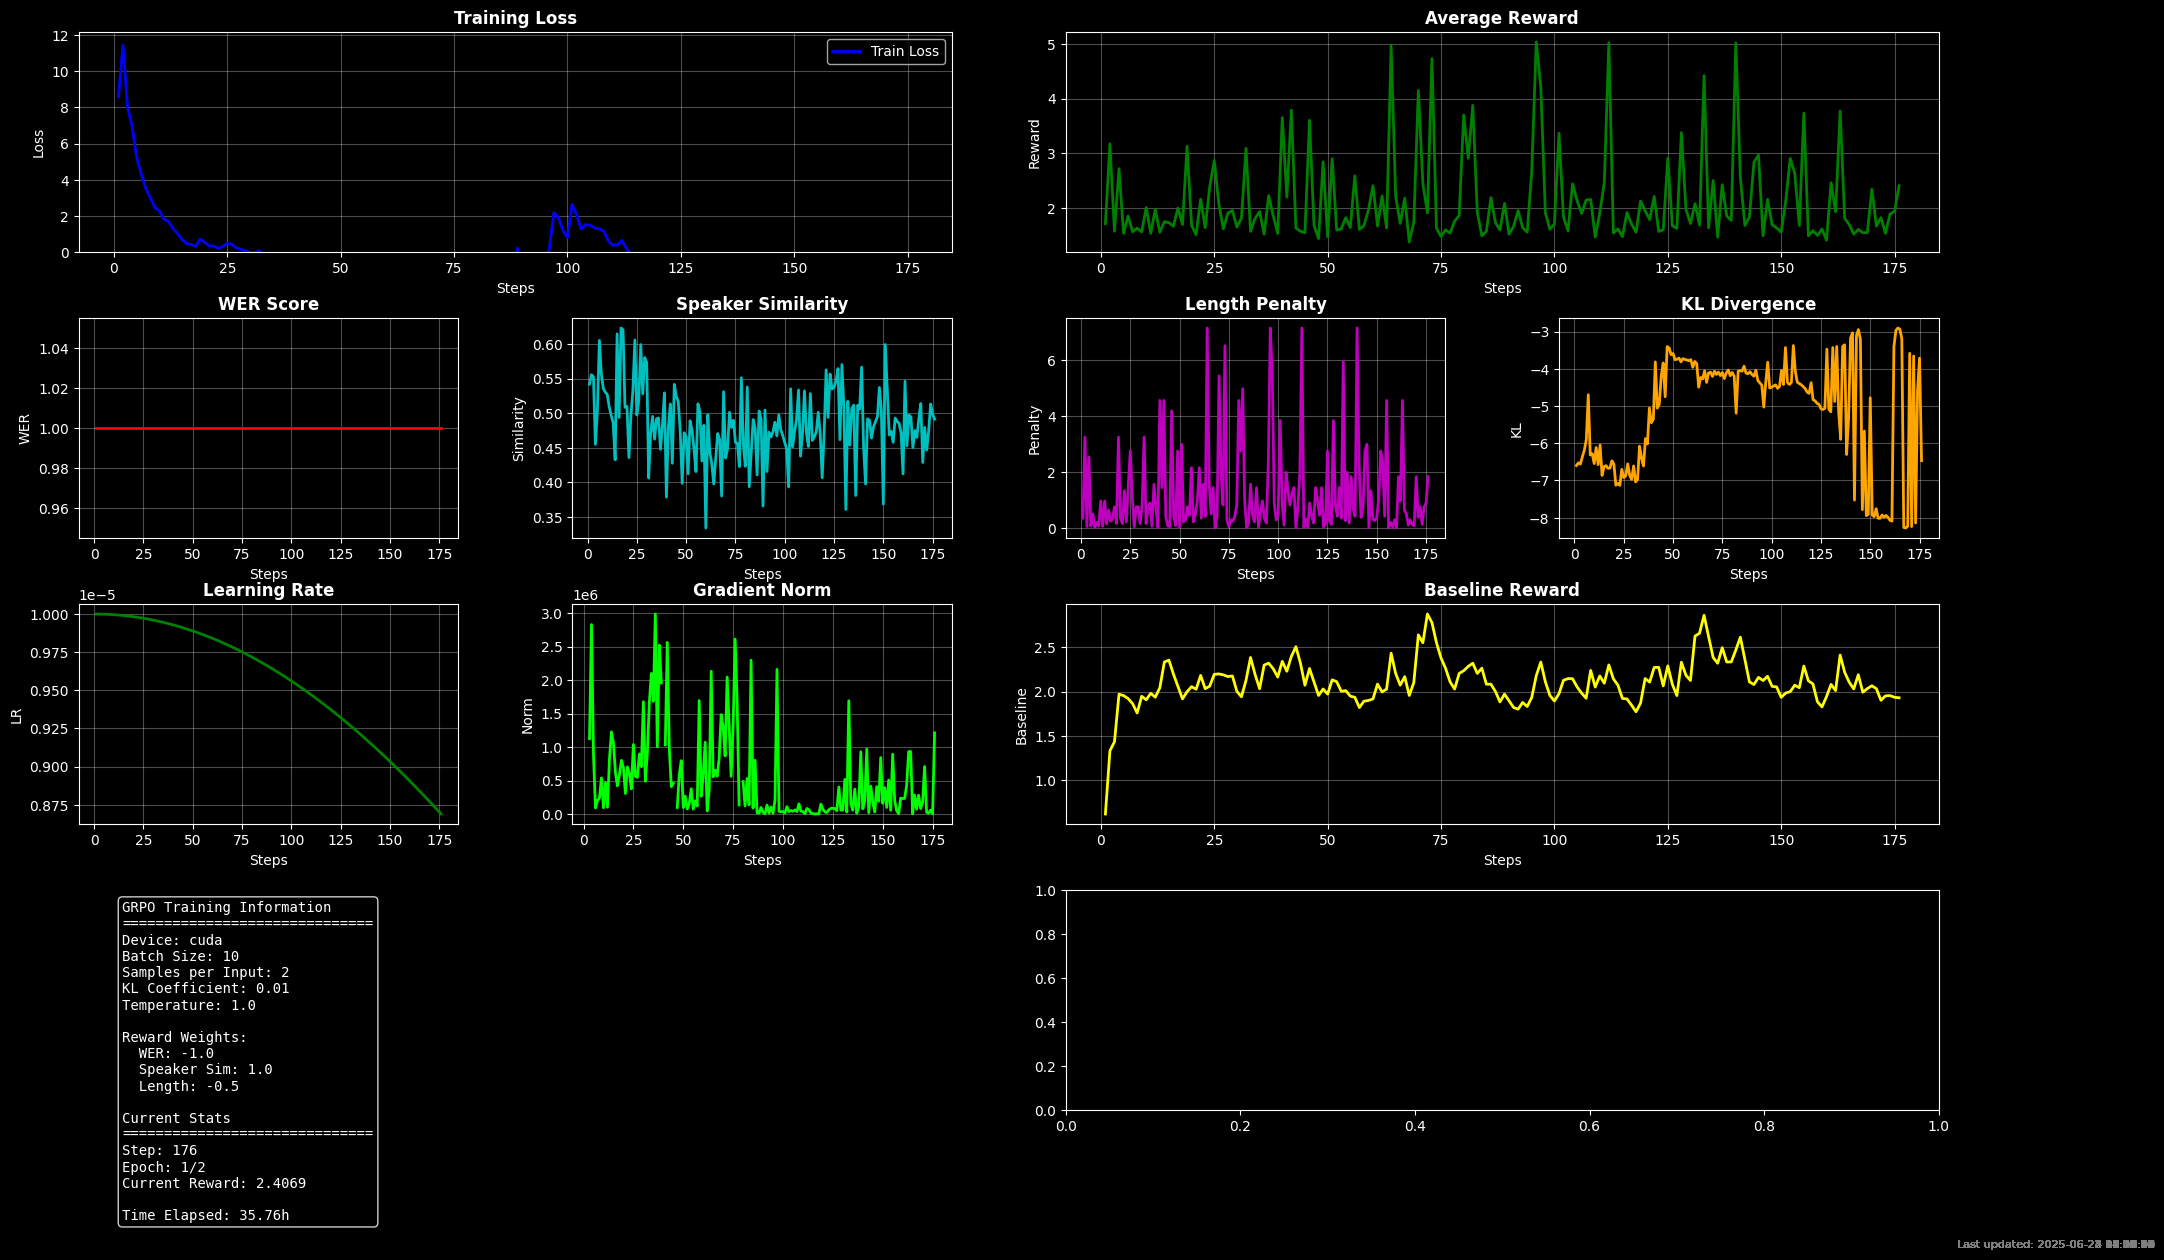
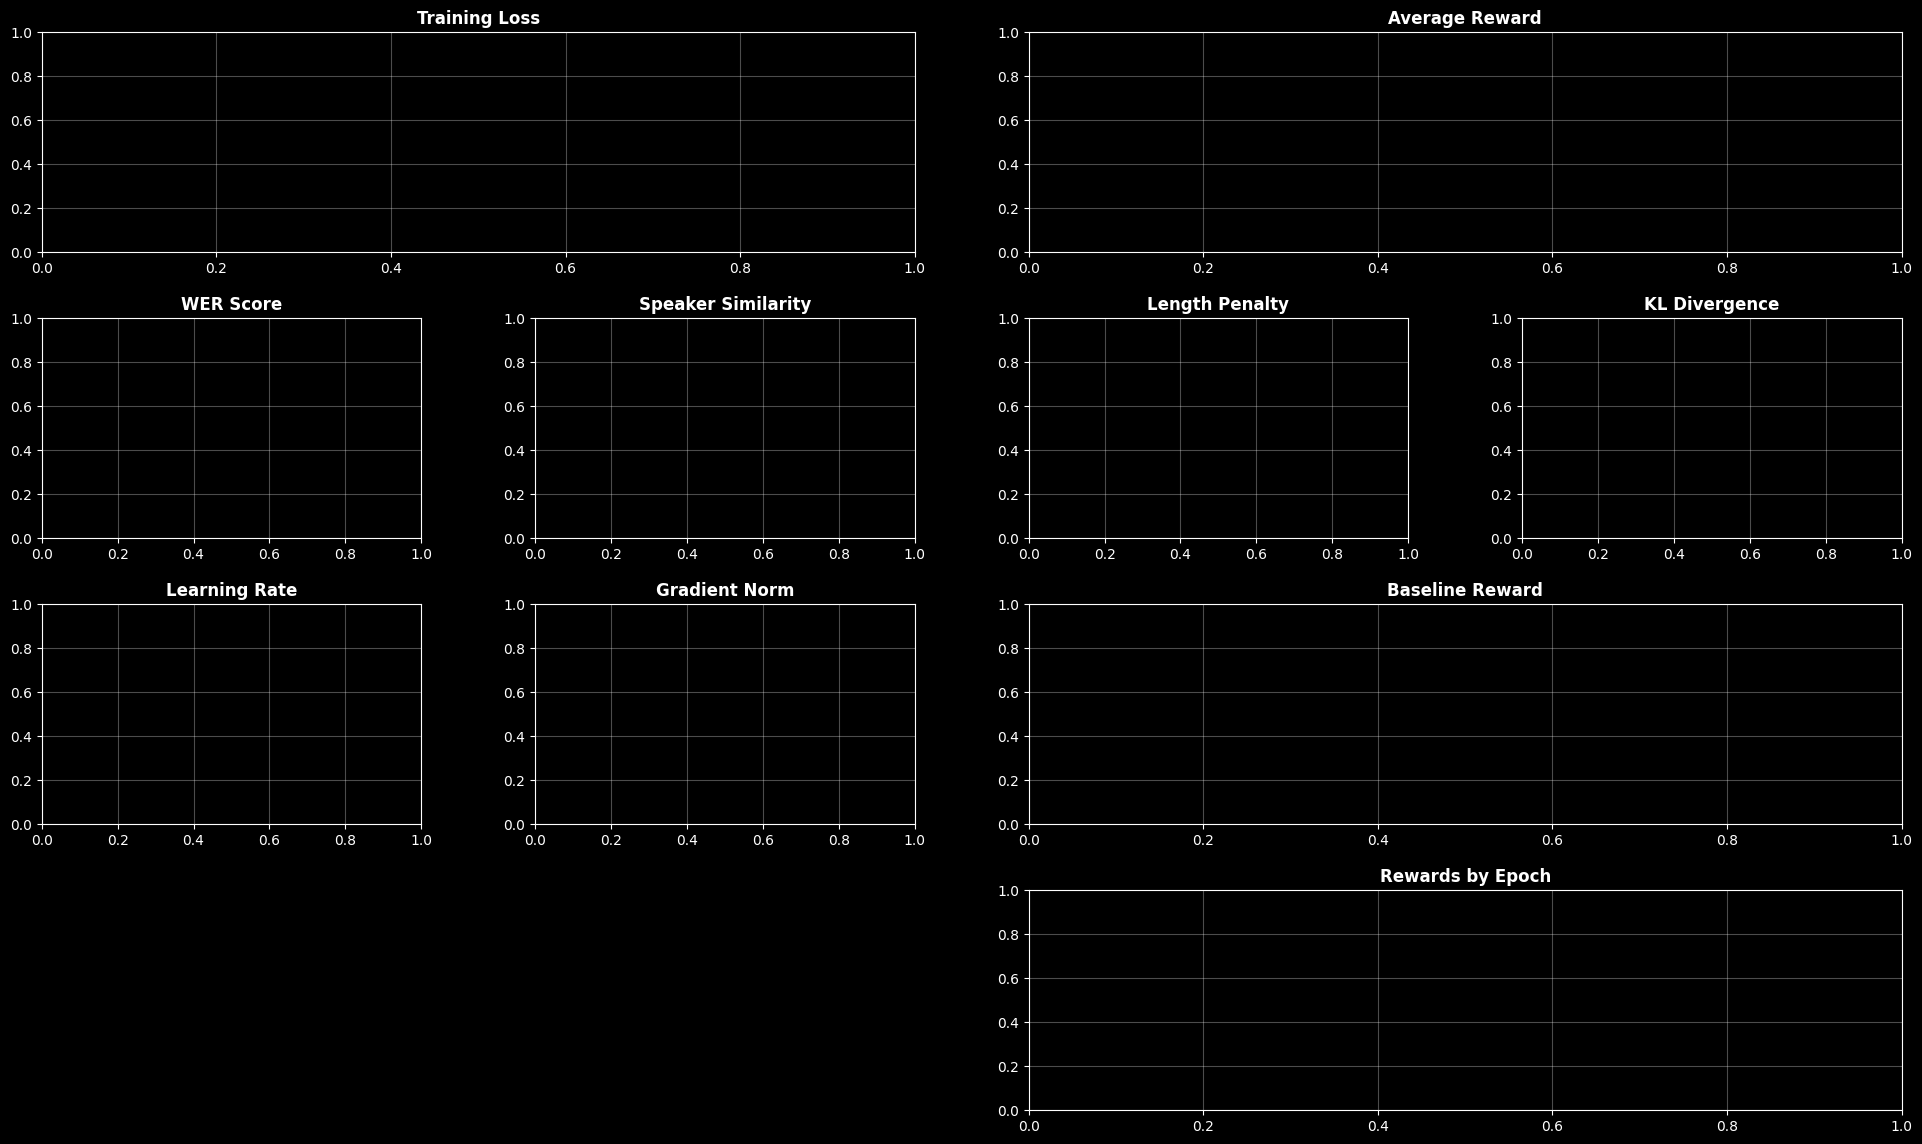
udpate training scripts to properly use new tokenizer

diff --git a/lora.py b/lora.py
@@ -768,10 +768,6 @@ def main():
     print("Injecting LoRA layers...")
     target_modules = TARGET_MODULES
 
-
-
-
-
     lora_layers = inject_lora_layers(
         model.t3.tfmr,
         target_modules,
@@ -806,12 +802,20 @@ def main():
         pin_memory=True if DEVICE == 'cuda' else False
     )
     
-    # Setup optimizer (only LoRA parameters)
-    lora_params = []
+    # ---------------------------------------------------------------
+    # Setup optimizer – train LoRA *and* the new Spanish token rows
+    # ---------------------------------------------------------------
+    # Collect LoRA parameters
+    lora_params: List[torch.nn.Parameter] = []
     for layer in lora_layers.values():
         lora_params.extend([layer.lora_A, layer.lora_B])
-    
-    optimizer = AdamW(lora_params, lr=LEARNING_RATE)
+
+    # Collect the resized text embedding + head parameters so they can
+    # learn useful representations for the new Spanish vocabulary.
+    base_params: List[torch.nn.Parameter] = list(model.t3.text_emb.parameters()) + \
+                                              list(model.t3.text_head.parameters())
+
+    optimizer = AdamW(base_params + lora_params, lr=LEARNING_RATE)
     scheduler = CosineAnnealingLR(
         optimizer,
         T_max=len(train_loader) * EPOCHS,
@@ -937,13 +941,20 @@ def main():
     final_adapter_path = Path(CHECKPOINT_DIR) / "final_lora_adapter.pt"
     save_lora_adapter(lora_layers, str(final_adapter_path))
     
-    # Create and save merged model
-    print("Creating merged model...")
-    
-    # Clone the model state for merging
+    # ---------------------------------------------------------------
+    # Build merged model that already has Spanish vocabulary support
+    # ---------------------------------------------------------------
     merged_model = ChatterboxTTS.from_pretrained(DEVICE)
-    
-    # Re-inject LoRA layers and load final weights
+    merged_model = resize_t3_embeddings(merged_model, spanish_tokenizer.vocab_size, DEVICE)
+    merged_model.tokenizer = spanish_tokenizer
+
+    # Transfer the trained embedding & head weights
+    merged_model.t3.text_emb.weight.data = model.t3.text_emb.weight.data.clone()
+    merged_model.t3.text_head.weight.data = model.t3.text_head.weight.data.clone()
+    if merged_model.t3.text_head.bias is not None:
+        merged_model.t3.text_head.bias.data = model.t3.text_head.bias.data.clone()
+
+    # Re-inject LoRA layers and copy trained LoRA weights
     merged_lora_layers = inject_lora_layers(
         merged_model.t3.tfmr,
         target_modules,
@@ -951,34 +962,28 @@ def main():
         alpha=LORA_ALPHA,
         dropout=LORA_DROPOUT
     )
-    
-    # Copy trained weights to merged model's LoRA layers
     for name, layer in lora_layers.items():
         if name in merged_lora_layers:
             merged_lora_layers[name].lora_A.data = layer.lora_A.data.clone()
             merged_lora_layers[name].lora_B.data = layer.lora_B.data.clone()
-    
-    # Merge LoRA weights into base model
+
     merged_model = merge_lora_weights(merged_model, merged_lora_layers)
-    
+
     # Save merged model components
     merged_dir = Path(CHECKPOINT_DIR) / "merged_model"
     merged_dir.mkdir(parents=True, exist_ok=True)
-    
-    # Save each component
+
     torch.save(merged_model.ve.state_dict(), merged_dir / "ve.pt")
     torch.save(merged_model.t3.state_dict(), merged_dir / "t3_cfg.pt")
     torch.save(merged_model.s3gen.state_dict(), merged_dir / "s3gen.pt")
-    
-    # Copy tokenizer
-    import shutil
-    tokenizer_path = Path(hf_hub_download(repo_id="ResembleAI/chatterbox", filename="tokenizer.json"))
-    shutil.copy(tokenizer_path, merged_dir / "tokenizer.json")
-    
+
+    # Save Spanish tokenizer alongside the model
+    spanish_tokenizer.save_pretrained(merged_dir, safe_serialization=False)
+
     # Save conditionals if they exist
     if model.conds:
         model.conds.save(merged_dir / "conds.pt")
-    
+
     print(f"Saved merged model to {merged_dir}")
     print("\nTraining complete! You can now:")
     print(f"1. Use the LoRA adapter: {final_adapter_path}")
@@ -1093,6 +1098,9 @@ def save_checkpoint(
        'loss': loss,
        'lora_state_dict': lora_state_dict,
        'optimizer_state_dict': optimizer.state_dict(),
+       # Store the full model weights so we keep the trained Spanish
+       # embedding/head layers and any other fine-tuned weights.
+       'model_state_dict': model.state_dict(),
    }
    
    torch.save(checkpoint, checkpoint_path)

diff --git a/grpo.py b/grpo.py
@@ -1221,7 +1221,7 @@ def compute_grpo_loss(
                                     if validate_tensor_operation(kl_div, f"kl div {idx}"):
                                         total_kl += kl_div
                 
-                del embeds, hidden_states
+                del embeds, hidden_states, speech_logits
                 if DEVICE == 'cuda':
                     torch.cuda.empty_cache()
                     
@@ -1358,11 +1358,17 @@ def main():
             pin_memory=True if DEVICE == 'cuda' else False
         )
         
-        lora_params = []
+        # ---------------------------------------------------------------
+        # Optimizer trains LoRA params *and* new Spanish embedding rows
+        # ---------------------------------------------------------------
+        lora_params: List[torch.nn.Parameter] = []
         for layer in lora_layers.values():
             lora_params.extend([layer.lora_A, layer.lora_B])
-        
-        optimizer = AdamW(lora_params, lr=LEARNING_RATE)
+
+        base_params: List[torch.nn.Parameter] = list(model.t3.text_emb.parameters()) + \
+                                              list(model.t3.text_head.parameters())
+
+        optimizer = AdamW(base_params + lora_params, lr=LEARNING_RATE)
         scheduler = CosineAnnealingLR(
             optimizer,
             T_max=len(train_loader) * EPOCHS,
@@ -1550,8 +1556,19 @@ def main():
         save_lora_adapter(lora_layers, str(final_adapter_path))
         
         print("Creating merged model...")
+        # ---------------------------------------------------------------
+        # Build merged model that already has Spanish vocab & weights
+        # ---------------------------------------------------------------
         merged_model = ChatterboxTTS.from_pretrained(DEVICE)
-        
+        merged_model = resize_t3_embeddings(merged_model, spanish_tokenizer.vocab_size, DEVICE)
+        merged_model.tokenizer = spanish_tokenizer
+
+        # copy embedding/head weights
+        merged_model.t3.text_emb.weight.data = model.t3.text_emb.weight.data.clone()
+        merged_model.t3.text_head.weight.data = model.t3.text_head.weight.data.clone()
+        if merged_model.t3.text_head.bias is not None:
+            merged_model.t3.text_head.bias.data = model.t3.text_head.bias.data.clone()
+
         merged_lora_layers = inject_lora_layers(
             merged_model.t3.tfmr,
             target_modules,
@@ -1559,25 +1576,23 @@ def main():
             alpha=LORA_ALPHA,
             dropout=LORA_DROPOUT
         )
-        
         for name, layer in lora_layers.items():
             if name in merged_lora_layers:
                 merged_lora_layers[name].lora_A.data = layer.lora_A.data.clone()
                 merged_lora_layers[name].lora_B.data = layer.lora_B.data.clone()
-        
+
         merged_model = merge_lora_weights(merged_model, merged_lora_layers)
-        
+
         merged_dir = Path(CHECKPOINT_DIR) / "merged_grpo_model"
         merged_dir.mkdir(parents=True, exist_ok=True)
-        
+
         torch.save(merged_model.ve.state_dict(), merged_dir / "ve.pt")
         torch.save(merged_model.t3.state_dict(), merged_dir / "t3_cfg.pt")
         torch.save(merged_model.s3gen.state_dict(), merged_dir / "s3gen.pt")
-        
-        import shutil
-        tokenizer_path = Path(hf_hub_download(repo_id="ResembleAI/chatterbox", filename="tokenizer.json"))
-        shutil.copy(tokenizer_path, merged_dir / "tokenizer.json")
-        
+
+        # save spanish tokenizer
+        spanish_tokenizer.save_pretrained(merged_dir, safe_serialization=False)
+
         print(f"Saved GRPO merged model to {merged_dir}")
         print("\nTraining complete!")
         
@@ -1700,6 +1715,7 @@ def save_checkpoint(
             'metric': metric,
             'lora_state_dict': lora_state_dict,
             'optimizer_state_dict': optimizer.state_dict(),
+            'model_state_dict': model.state_dict(),  # keep trained embeddings
         }
         
         torch.save(checkpoint, checkpoint_path)

diff --git a/loadandmergecheckpoint.py b/loadandmergecheckpoint.py
@@ -15,6 +15,9 @@ CHECKPOINT_PATH = "./checkpoints_lora/checkpoint_epoch4_step3087.pt"  # Path to 
 OUTPUT_DIR = "./checkpoints_lora/merged_model"  # Where to save the merged model
 DEVICE = "cuda:1" if torch.cuda.is_available() else "cpu"
 
+# Spanish tokenizer model (same one used during training)
+SPANISH_TOKENIZER_MODEL = "PlanTL-GOB-ES/roberta-base-bne"
+
 # LoRA configuration (must match training config)
 LORA_RANK = 32
 LORA_ALPHA = 64
@@ -142,8 +145,8 @@ def save_merged_model(model: ChatterboxTTS, output_dir: Path, spanish_tokenizer=
         
     else:  # English tokenizer (704 tokens)
         print("🇺🇸 Detected English model - saving English tokenizer")
-        tokenizer_path = Path(hf_hub_download(repo_id="ResembleAI/chatterbox", filename="tokenizer.json"))
-        shutil.copy(tokenizer_path, output_dir / "tokenizer.json")
+    tokenizer_path = Path(hf_hub_download(repo_id="ResembleAI/chatterbox", filename="tokenizer.json"))
+    shutil.copy(tokenizer_path, output_dir / "tokenizer.json")
         print(f"✅ Saved English tokenizer with 704 tokens")
     
     # Save conditionals if they exist
@@ -174,10 +177,18 @@ def main():
     print(f"  - Loss: {checkpoint['loss']:.4f}")
     print(f"  - LoRA weights found: {len(checkpoint['lora_state_dict'])}")
     
-    # Load base model
+    # -----------------------------------------------------------
+    # Load base model **with Spanish vocabulary support**
+    # -----------------------------------------------------------
     print("\nLoading base Chatterbox model...")
     model = ChatterboxTTS.from_pretrained(DEVICE)
-    
+
+    # Prepare Spanish tokenizer and resize embeddings BEFORE we load
+    # the checkpoint weights so shapes match.
+    spanish_tokenizer = SpanishTokenizer(SPANISH_TOKENIZER_MODEL)
+    model = resize_t3_embeddings(model, spanish_tokenizer.vocab_size, DEVICE)
+    model.tokenizer = spanish_tokenizer
+
     # Inject LoRA layers
     print("\nInjecting LoRA layers...")
     lora_layers = inject_lora_layers(
@@ -189,6 +200,17 @@ def main():
     )
     print(f"Injected {len(lora_layers)} LoRA layers")
     
+    # -----------------------------------------------------------
+    # If the checkpoint contains the full model state (from new
+    # training script) load it so we get the trained embeddings.
+    # -----------------------------------------------------------
+    if 'model_state_dict' in checkpoint:
+        try:
+            model.load_state_dict(checkpoint['model_state_dict'], strict=False)
+            print("Loaded `model_state_dict` from checkpoint – Spanish embeddings restored")
+        except Exception as e:
+            print(f"WARNING: Failed to load model_state_dict: {e}")
+
     # Load LoRA weights from checkpoint
     print("\nLoading LoRA weights from checkpoint...")
     loaded_count = 0
@@ -213,7 +235,7 @@ def main():
     # Save merged model
     output_path = Path(OUTPUT_DIR)
     print(f"\nSaving merged model to {output_path}...")
-    save_merged_model(model, output_path)
+    save_merged_model(model, output_path, spanish_tokenizer=spanish_tokenizer.base_tokenizer)
     
     print("\n" + "=" * 50)
     print("SUCCESS! Merged model saved.")

diff --git a/src/chatterbox/models/tokenizers/tokenizer.py b/src/chatterbox/models/tokenizers/tokenizer.py
@@ -3,6 +3,7 @@ import logging
 import torch
 from tokenizers import Tokenizer
 from transformers import AutoTokenizer
+from pathlib import Path
 
 
 # Special tokens
@@ -55,10 +56,27 @@ class SpanishTokenizer:
     """Clean Spanish tokenizer for Chatterbox TTS - matches EnTokenizer interface"""
     
     def __init__(self, model_name="PlanTL-GOB-ES/roberta-base-bne"):
-        print(f"🔄 Loading Spanish tokenizer: {model_name}")
-        
-        # Load Spanish RoBERTa tokenizer  
-        self.base_tokenizer = AutoTokenizer.from_pretrained(model_name)
+        """Create a Spanish-compatible tokenizer.
+
+        `model_name` can be either:
+          • A HF repo id such as "PlanTL-GOB-ES/roberta-base-bne" (default).
+          • A path to a *directory* already containing a tokenizer config.
+          • A direct path to a `tokenizer.json` file (as used by Chatterbox
+            checkpoints).  In that case we resolve the parent directory so
+            `AutoTokenizer.from_pretrained` can load the config properly.
+        """
+
+        # If a file path ending with .json is supplied, use its parent folder
+        possible_path = Path(str(model_name))
+        if possible_path.is_file() and possible_path.suffix == ".json":
+            resolved_path = str(possible_path.parent)
+        else:
+            resolved_path = model_name
+
+        print(f"🔄 Loading Spanish tokenizer: {resolved_path}")
+
+        # Load tokenizer (will work for local dir or HF repo id)
+        self.base_tokenizer = AutoTokenizer.from_pretrained(resolved_path)
         
         # Add our special tokens to the vocabulary
         special_tokens = {
@@ -70,7 +88,7 @@ class SpanishTokenizer:
         self.vocab_size = len(self.base_tokenizer)
         
         print(f"✅ Spanish tokenizer initialized:")
-        print(f"   Base model: {model_name}")
+        print(f"   Base model: {resolved_path}")
         print(f"   Vocabulary size: {self.vocab_size:,} tokens")
         print(f"   Added special tokens: {num_added}")
         

diff --git a/src/chatterbox/tts.py b/src/chatterbox/tts.py
@@ -13,7 +13,7 @@ from huggingface_hub import hf_hub_download
 from .models.t3 import T3
 from .models.s3tokenizer import S3_SR, drop_invalid_tokens
 from .models.s3gen import S3GEN_SR, S3Gen
-from .models.tokenizers import EnTokenizer
+from .models.tokenizers import EnTokenizer, SpanishTokenizer
 from .models.voice_encoder import VoiceEncoder
 from .models.t3.modules.cond_enc import T3Cond
 
@@ -124,7 +124,8 @@ class ChatterboxTTS:
         t3: T3,
         s3gen: S3Gen,
         ve: VoiceEncoder,
-        tokenizer: EnTokenizer,
+        #tokenizer: EnTokenizer,
+        tokenizer: SpanishTokenizer,
         device: str,
         conds: Conditionals = None,
     ):
@@ -166,9 +167,14 @@ class ChatterboxTTS:
         )
         s3gen.to(device).eval()
 
-        tokenizer = EnTokenizer(
-            str(ckpt_dir / "tokenizer.json")
-        )
+        # Decide which tokenizer to load based on the checkpoint contents.
+        tokenizer_path = str(ckpt_dir / "tokenizer.json")
+        try:
+            tokenizer = EnTokenizer(tokenizer_path)
+            print("✅ Loaded English tokenizer (704 tokens)")
+        except Exception as en_err:
+            print(f"⚠ English tokenizer failed to load ({en_err}). Falling back to SpanishTokenizer")
+            tokenizer = SpanishTokenizer(tokenizer_path)
 
         conds = None
         if (builtin_voice := ckpt_dir / "conds.pt").exists():

diff --git a/tts_spanish_with_prompt.py b/tts_spanish_with_prompt.py
@@ -2,11 +2,11 @@ import torchaudio as ta
 from chatterbox.tts import ChatterboxTTS
 
 
-spanish_model = ChatterboxTTS.from_local("./checkpoints_lora/merged_model", device='cuda:2')
+spanish_model = ChatterboxTTS.from_local("./checkpoints_grpo/merged_grpo_model", device='cuda')
 text = "Hola amiga, te quiero contar algo muy bueno! estoy en la casa del bepi, bailando chamamé y cocinando altas pastas con una salsa de tomates cherry"
 AUDIO_PROMPT_PATH = "audio_data/000000_Para la caída del cabello tengo un nuevo champú.wav"
 wav = spanish_model.generate(text, audio_prompt_path=AUDIO_PROMPT_PATH, cfg_weight=0.4)
-ta.save("test-spanish-2.wav", wav, spanish_model.sr)
+ta.save("test-spanish-grpo-2.wav", wav, spanish_model.sr)
 
 
 #audio = spanish_model.generate(

diff --git a/tts_spanish.py b/tts_spanish.py
@@ -9,7 +9,7 @@ text = "Hola amiga, te quiero contar algo muy bueno!"
 print(f"🎯 Generating Spanish TTS for: '{text}'")
 
 wav = spanish_model.generate(text)
-ta.save("test-spanish-11.wav", wav, spanish_model.sr)
+ta.save("test-spanish-111.wav", wav, spanish_model.sr)
 
 print(f"✅ Spanish audio saved to: test-spanish-11.wav")
 print(f"📊 Audio shape: {wav.shape}")
